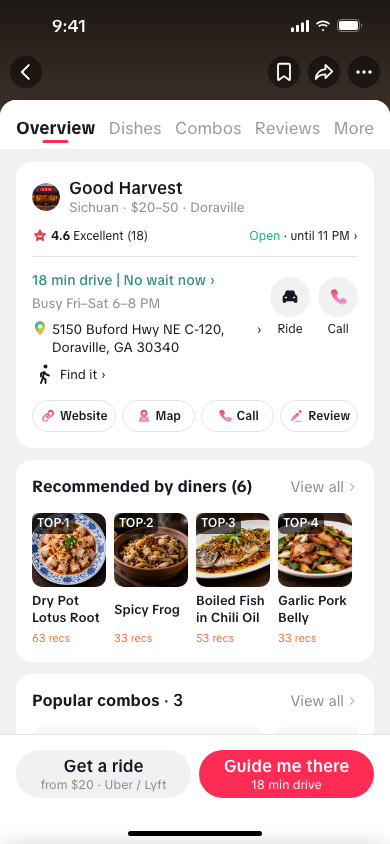
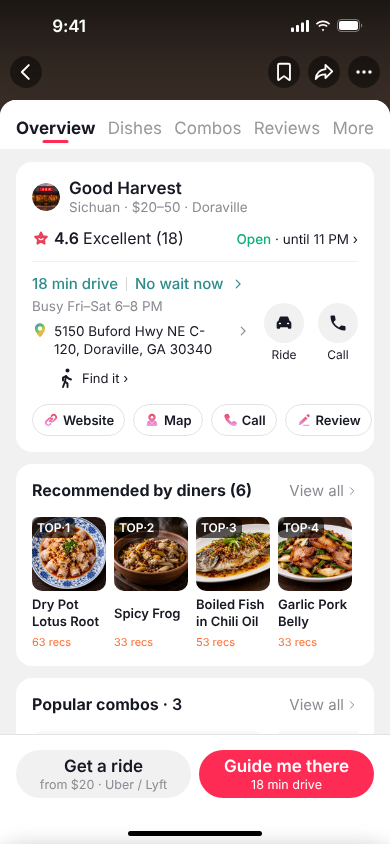
Match Overview card to Figma general-info v2: rating row 16px, divider, drive/wait segments, pin-aligned address, Find it indent, dark Ride/Call circles, pill row; heart in capsule
Claude-Session: https://claude.ai/code/session_01Q6z36aYFBjH3xCc6Ygpjkp

diff --git a/index.html b/index.html
@@ -76,10 +76,10 @@
             <div class="name"><b>Good Harvest</b><span>Sichuan · $20–50 · Doraville</span></div>
             <div class="head-actions"><span class="ic dark" data-i="share"></span><span class="ic dark" data-i="bookmark"></span><span class="ic dark" data-i="more"></span></div>
           </div>
-          <div class="stats-capsule half-only"><button data-act="reviews"><small>18 reviews</small><b><span class="ic heart" data-i="star"></span> 4.6 Excellent</b></button><button data-act="demo"><small>Hours</small><b>12–11 PM</b></button><button data-act="demo"><small>Per person</small><b>$35</b></button></div>
+          <div class="stats-capsule half-only"><button data-act="reviews"><small>18 reviews</small><b><span class="ic heart" data-i="heart"></span> 4.6 Excellent</b></button><button data-act="demo"><small>Hours</small><b>12–11 PM</b></button><button data-act="demo"><small>Per person</small><b>$35</b></button></div>
           <div class="overview-details full-only">
-            <div class="rating-line"><span><span class="ic" data-i="star"></span><b>4.6</b> Excellent (18)</span><button data-act="demo"><em>Open</em> · until 11 PM ›</button></div>
-            <div class="address-actions"><div class="address-copy"><button class="drive-wait" data-act="demo">18 min drive │ No wait now ›</button><p>Busy Fri–Sat 6–8 PM</p><button class="street" data-act="dir"><span class="ic" data-i="pin"></span><span>5150 Buford Hwy NE C-120, Doraville, GA 30340</span>›</button><button class="find-it" data-act="guide"><span class="ic" data-i="walk"></span>Find it ›</button></div><div class="address-shortcuts"><button data-act="ride"><span class="ic" data-i="car"></span>Ride</button><button data-act="demo"><span class="ic" data-i="call"></span>Call</button></div></div>
+            <div class="rating-line"><span class="rt"><span class="ic" data-i="star"></span><b>4.6</b> Excellent (18)</span><button data-act="demo"><em>Open</em> · until 11 PM ›</button></div>
+            <div class="address-actions"><div class="address-copy"><button class="drive-wait" data-act="demo"><span>18 min drive</span><i></i><span>No wait now</span><span class="ic sm" data-i="chev"></span></button><p>Busy Fri–Sat 6–8 PM</p><button class="street" data-act="dir"><span class="ic" data-i="pin"></span><span class="txt">5150 Buford Hwy NE C-120, Doraville, GA 30340</span><span class="ic sm" data-i="chev"></span></button><button class="find-it" data-act="guide"><span class="ic" data-i="walk"></span>Find it ›</button></div><div class="address-shortcuts"><button data-act="ride"><span class="ic" data-i="car"></span>Ride</button><button data-act="demo"><span class="ic" data-i="phoneDark"></span>Call</button></div></div>
             <div class="pills"><button data-act="demo"><span class="ic" data-i="website"></span>Website</button><button data-act="dir"><span class="ic" data-i="map"></span>Map</button><button data-act="demo"><span class="ic" data-i="call"></span>Call</button><button data-act="reviews"><span class="ic" data-i="review"></span>Review</button></div>
           </div>
         </section>

diff --git a/styles.css b/styles.css
@@ -358,20 +358,19 @@ body.mouse #phone,body.mouse #phone *{cursor:none!important}
 #place .rv-text{font-size:14px;line-height:20px}
 #place.full .overview-details{display:block}
 .rating-line,.rating-line>span{display:flex;align-items:center;gap:3px}
-.rating-line{justify-content:space-between;margin:12px 0;padding-bottom:12px;border-bottom:1px solid #E6E6E8;font-size:12px;white-space:nowrap}
-.rating-line svg{width:16px;height:16px}
-.rating-line button{font-size:12px}.rating-line em{font-style:normal;color:#0BB07B}
+.rating-line{justify-content:space-between;margin:12px 0;padding-bottom:12px;border-bottom:1px solid #F0F0F2;font-size:16px;line-height:21px;white-space:nowrap}.rating-line .rt{gap:4px}.rating-line .rt b{font-weight:600}.rating-line svg{width:18px;height:18px}
+.rating-line button{font-size:13.5px;line-height:18px}.rating-line em{font-weight:500}.rating-line em{font-style:normal;color:#0BB07B}
 .address-actions{display:flex;gap:8px}.address-copy{min-width:0;flex:1}
-.drive-wait{color:#2E8B8B;font-size:14px;font-weight:500;white-space:nowrap}
+.drive-wait{display:flex;align-items:center;gap:8px;color:#2E8B8B;font-size:15px;line-height:20px;font-weight:500;white-space:nowrap}.drive-wait i{display:block;width:1px;height:14px;background:#D6D6D8}.drive-wait .ic svg path{stroke:#2E8B8B}
 .address-copy>p{font-size:13.5px;color:var(--sub);margin-top:4px}
-.street{display:flex;align-items:flex-start;gap:4px;font-size:13.5px;line-height:18px;margin-top:8px}
-.street svg{width:16px;height:16px}.find-it{display:flex;gap:4px;align-items:center;font-size:13px;margin-top:6px}
-.address-shortcuts{display:flex;gap:8px;align-items:flex-start;padding-top:8px}
+.street{display:flex;align-items:flex-start;gap:6px;font-size:13.5px;line-height:18px;margin-top:8px;width:100%}.street .txt{flex:1;min-width:0}.street .ic.sm{height:18px;align-items:center}
+.street svg{width:16px;height:16px}.find-it{display:flex;gap:4px;align-items:center;font-size:13px;margin:8px 0 0 22px}
+.address-shortcuts{display:flex;gap:14px;align-items:center;align-self:center;padding:0 0 0 6px}
 .address-shortcuts button{display:flex;align-items:center;flex-direction:column;gap:4px;font-size:12px}
 .address-shortcuts .ic{width:40px;height:40px;background:#F1F1F2;border-radius:50%;align-items:center;justify-content:center}
 .address-shortcuts svg{width:20px;height:20px}
 #place .pills{gap:6px;margin:14px 0 0;padding:0;overflow:visible}
-#place .pills button{padding:0 7px;flex:1;justify-content:center;font-size:12px}
+#place .pills{justify-content:space-between;gap:8px}#place .pills button{padding:0 10px;flex:none;font-size:13px}
 #place .combo-row{margin-right:0;padding:0}.combo{height:170px;border-radius:10px;gap:5px}
 #place:not(.full) #sec-combos,#place:not(.full) #sec-nearby{display:none}
 #place .tabs{gap:0;padding:12px 16px 6px;justify-content:space-between}

diff --git a/app.js b/app.js
@@ -11,6 +11,8 @@
 </g>
 </svg>
 `,
+    heart: '<svg width="18" height="18" viewBox="0 0 24 24" fill="#FE2C55"><path d="M12 21s-7.5-4.6-9.6-9.3C.9 8.3 3 4.5 6.7 4.5c2 0 3.6 1.1 5.3 3 1.7-1.9 3.3-3 5.3-3 3.7 0 5.8 3.8 4.3 7.2C19.5 16.4 12 21 12 21z"/></svg>',
+    phoneDark: '<svg width="20" height="20" viewBox="0 0 24 24" fill="#161823"><path d="M6.6 10.8a15 15 0 006.6 6.6l2.2-2.2c.3-.3.7-.4 1-.2 1.1.4 2.3.6 3.6.6.6 0 1 .4 1 1V20c0 .6-.4 1-1 1A17 17 0 013 4c0-.6.4-1 1-1h3.5c.6 0 1 .4 1 1 0 1.3.2 2.5.6 3.6.1.3 0 .7-.2 1L6.6 10.8z"/></svg>',
     car: `<svg preserveAspectRatio="none" overflow="visible" style="display: block;" width="24" height="24" viewBox="0 0 24 24" fill="none" xmlns="http://www.w3.org/2000/svg">
 <g id="Icon/Car">
 <path id="Vector" d="M5.2 9.5L6.6 5.6C6.9 4.7 7.7 4.2 8.6 4.2H15.4C16.3 4.2 17.1 4.7 17.4 5.6L18.8 9.5C20 9.9 20.8 11 20.8 12.3V17.5C20.8 18.3 20.1 19 19.3 19H18C17.2 19 16.5 18.3 16.5 17.5V17H7.5V17.5C7.5 18.3 6.8 19 6 19H4.7C3.9 19 3.2 18.3 3.2 17.5V12.3C3.2 11 4 9.9 5.2 9.5Z" fill="#161823"/>
